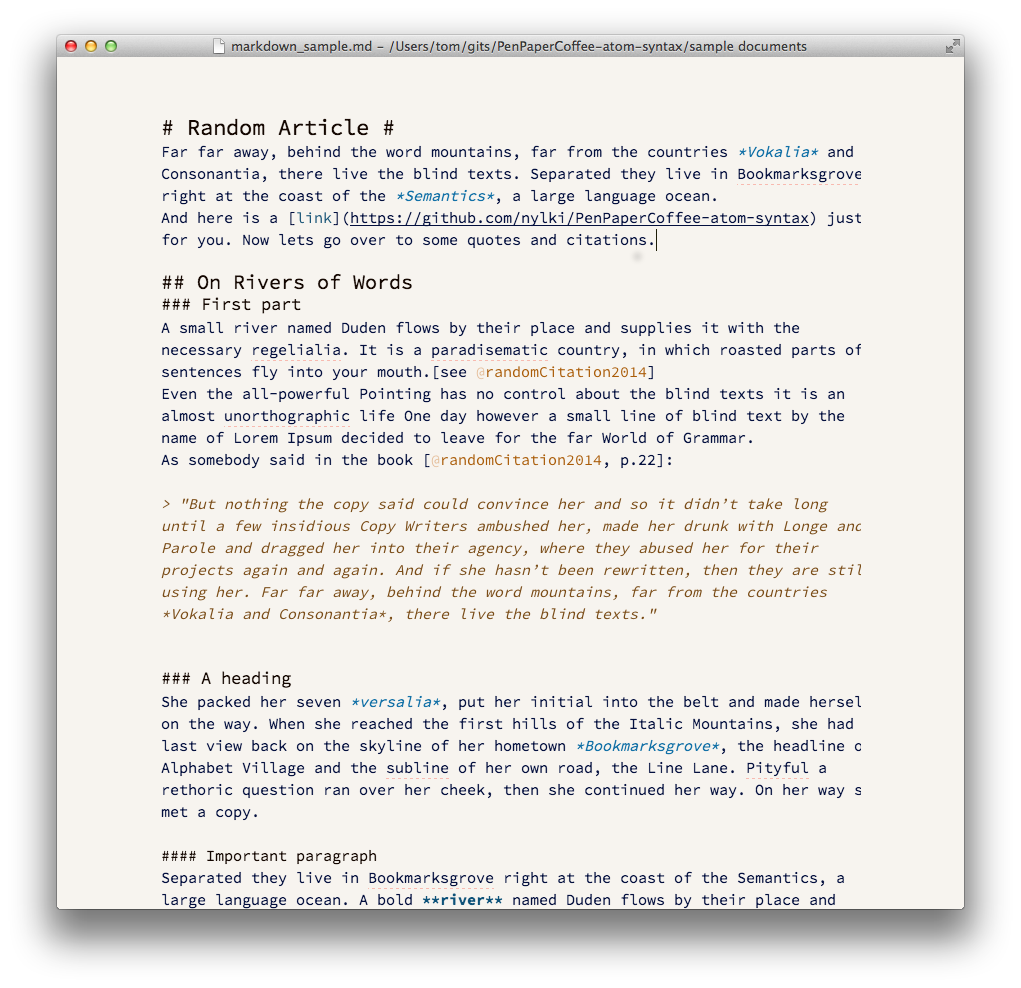
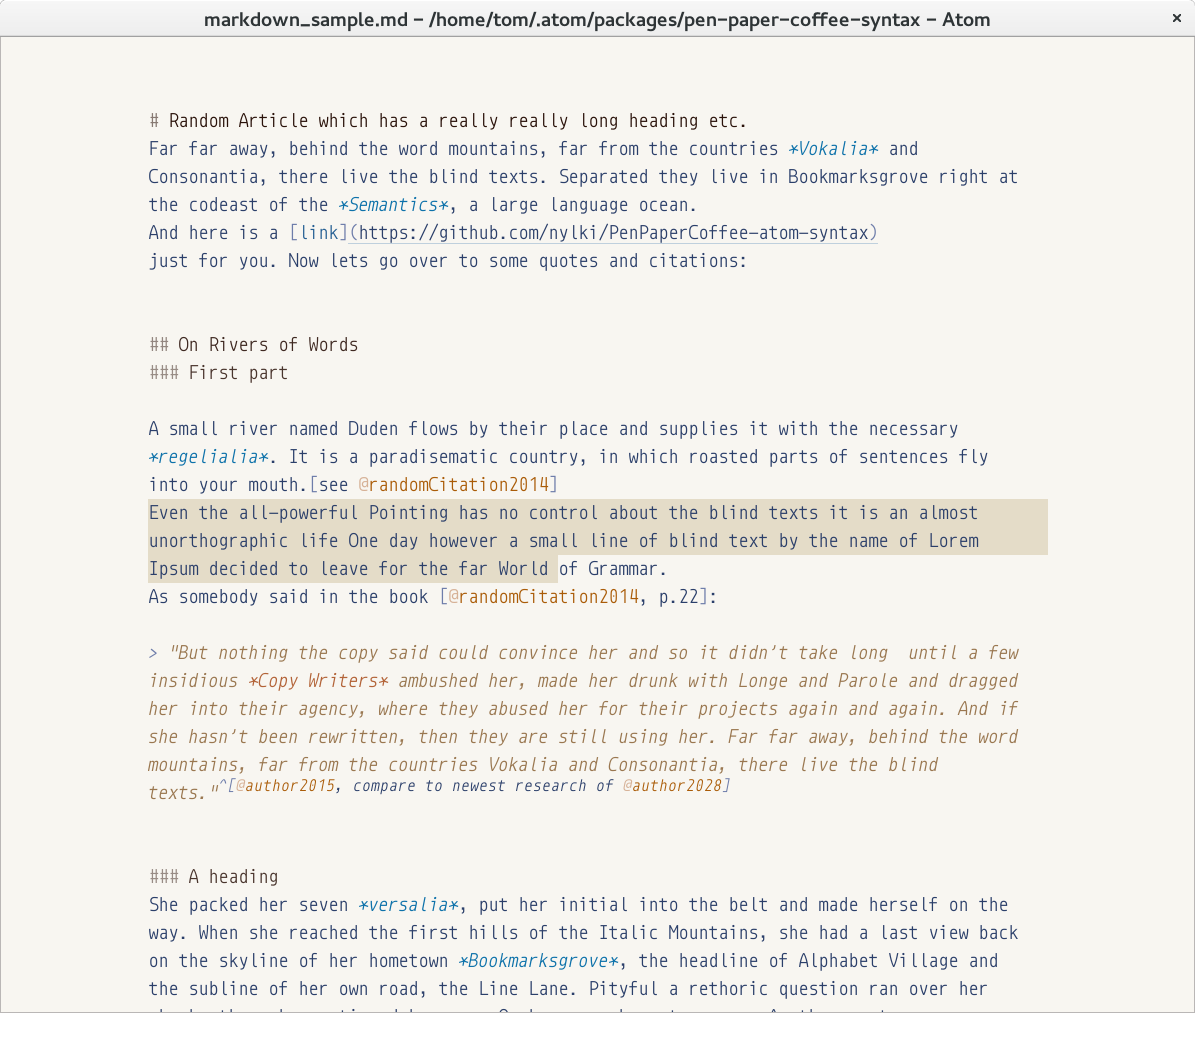
commented out header font size because of #20 and https://github.com/atom/atom/issues/6055

Changed region(s): [[0.0, 0.0, 1.0, 0.9717], [0.8198, 0.2126, 0.8501, 0.2429]]

diff --git a/styles/languages/markdown.less b/styles/languages/markdown.less
@@ -43,28 +43,36 @@
     &.heading {
         color: @heading-ink;
         font-weight: normal;
-        position: relative;
+        // position: relative;
         &.heading-1 {
-            font-size: 135%;
-            bottom: 0.35em;
+            font-weight: 900;
+            // font-size: 105%;
+            // font-size: 135%;
+            // bottom: 0.35em;
             opacity: 1.0;
         }
         &.heading-2 {
-            font-size: 125%;
-            bottom: 0.25em;
-            opacity: 0.95;
+            font-weight: 800;
+            // font-size: 102%;
+            // font-size: 125%;
+            // bottom: 0.25em;
+            // opacity: 0.95;
+            opacity: 0.9;
         }
         &.heading-3 {
-            font-size: 115%;
-            bottom: 0.15em;
-            opacity: 0.90;
+            font-weight: 700;
+            // font-size: 115%;
+            // bottom: 0.15em;
+            // opacity: 0.90;
+            opacity: 0.85;
         }
         &.heading-4,
         &.heading-5,
         &.heading-6 {
-            font-size: 105%;
-            bottom: 0.05em;
-            opacity: 0.85;
+            // font-size: 105%;
+            // bottom: 0.05em;
+            // opacity: 0.80;
+            opacity: 0.80;
         }
         // marker of headings
         &.marker {
@@ -197,19 +205,20 @@
   }
 
   &.citation{
-    background: fadeout(@citation-name-color,90%);
+    // background: fadeout(@citation-name-color,90%);
   }
 
   &.footnote {
-    // position: relative;
-    // top: -0.5em;
-    // font-size: 70%;
+    position: relative;
+    top: -0.5em;
+    font-size: 85%;
     // font-weight:900;
     // so far comes from language-pfm
 
-    font-style: normal;
-    vertical-align: super;
-    font-size: 85%;
+    // would be better?
+    // font-style: normal;
+    // vertical-align: super;
+    // font-size: 85%;
     color:@ink;
   }
 

diff --git a/sample documents/markdown_sample.md b/sample documents/markdown_sample.md
@@ -7,15 +7,12 @@ just for you. Now lets go over to some quotes and citations:
 
 ## On Rivers of Words
 ### First part
-A small river named Duden flows by their place and supplies it with the necessary *regelialia*. It is a paradisematic country, in which roasted parts of sentences fly into your mouth.[see @randomCitation2014]
+
+A small river named Duden flows by their place and supplies it with the necessary *regelialia*. It is a paradisematic country, in which roasted parts of sentences fly into your mouth [see @randomCitation2014].
 Even the all-powerful Pointing has no control about the blind texts it is an almost unorthographic life One day however a small line of blind text by the name of Lorem Ipsum decided to leave for the far World of Grammar.
-As somebody said in the book [@randomCitation2014, p.22]:
+As somebody said in the book:
 
-> "But nothing the copy said could convince her and so it didn’t take long  until a few insidious *Copy Writers* ambushed her, made her drunk with Longe and Parole and dragged her into their agency, where they abused her for their projects again and again. And if she hasn’t been rewritten, then they are still using her. Far far away, behind the word mountains, far from the countries Vokalia and Consonantia, there live the blind texts."^[@author2015, compare to newest research of @author2028]
-
-
-[p. 1, This is *not* a list. **bold text**]
-^[p. 1, This is *not* a list **bold text**]
+> "But nothing the copy said could convince her and so it didn’t take long  until a few insidious *Copy Writers* ambushed her, made her drunk with Longe and Parole and dragged her into their agency, where they abused her for their projects again and again. And if she hasn’t been rewritten, then they are still using her. Far far away, behind the word mountains, far from the countries Vokalia and Consonantia, there live the blind texts."^[This is a footnote, p.22]
 
 
 ### A heading
@@ -33,9 +30,10 @@ It is a *paradisematic country*, in which roasted parts of sentences fly into yo
 
 She packed her seven versalia, put her initial into the belt and made herself on the way. When she reached the **first hills** of the Italic Mountains, she had a last view back on the skyline of her hometown Bookmarksgrove, the headline of Alphabet Village and the subline of her own road, the Line Lane. Pityful a rethoric question ran over her cheek, then she continued her way. On her way she met a copy. The copy warned the Little Blind Text, that where it came from it would have been rewritten a thousand times and everything that was left from its origin would be the word "and" and the Little Blind Text should turn around and return to its own, safe country.^[This is not so cool]
 
-But nothing the copy said could convince her and so it didn’t take long until a few insidious Copy Writers ambushed her, made her drunk with Longe and Parole and dragged her into their agency, where they abused her for their projects again and again. And if she hasn’t been rewritten, then they are still using her. Far far away, behind the word mountains, far from the countries Vokalia and Consonantia, there live the blind texts. Separated they live in Bookmarksgrove right at the coast of the Semantics, a large language ocean. A small river named Duden flows by their place and supplies it with the necessary regelialia. It is a paradisematic country, in which roasted parts of sentences fly into your mouth.^[Lorem ipsum dolor sit amet, consectetur adipisicing elit, sed do eiusmod tempor incididunt ut labore et dolore magna aliqua. Ut enim ad minim veniam, quis nostrud exercitation ullamco laboris nisi ut aliquip ex ea commodo consequat. Duis aute irure dolor in reprehenderit in voluptate velit esse cillum dolore eu fugiat nulla pariatur. Excepteur sint occaecat cupidatat non proident, sunt in culpa qui officia deserunt mollit anim id est laborum. Lorem ipsum dolor sit amet, consectetur adipisicing elit, sed do eiusmod tempor incididunt ut labore et dolore magna aliqua. Ut enim ad minim veniam, quis nostrud exercitation ullamco laboris nisi ut aliquip ex ea commodo consequat. Duis aute irure dolor in reprehenderit in voluptate velit esse cillum dolore eu fugiat nulla pariatur. Excepteur sint occaecat cupidatat non proident, sunt in culpa qui officia deserunt mollit anim id est laborum.]
+But nothing the copy said could convince her and so it didn’t take long until a few insidious Copy Writers ambushed her, made her drunk with Longe and Parole and dragged her into their agency, where they abused her for their projects again and again. And if she hasn’t been rewritten, then they are still using her. Far far away, behind the word mountains, far from the countries Vokalia and Consonantia, there live the blind texts. Separated they live in Bookmarksgrove right at the coast of the Semantics, a large language ocean. A small river named Duden flows by their place and supplies it with the necessary regelialia. It is a paradisematic country, in which roasted parts of sentences fly into your mouth.^[Lorem ipsum dolor sit amet, consectetur adipisicing elit, sed do eiusmod tempor incididunt ut labore et dolore magna aliqua. Ut enim ad minim veniam, quis nostrud exercitation ullamco laboris nisi ut aliquip ex ea commodo consequat.]
 
-Even the all-powerful Pointing has no control about the blind texts it is an almost unorthographic life **One** day however a small line of blind text by the name of Lorem Ipsum decided to leave for the far World of Grammar. The Big Oxmox advised her not to do so, because there were thousands of bad Commas, wild Question Marks and devious Semikoli, but the Little Blind Text didn’t listen. She packed her seven versalia, put her initial into the belt and made herself on the way. When she reached the first hills of the Italic Mountains, she had a last view back on the skyline of her hometown Bookmarksgrove, the headline of Alphabet Village and the subline of her own road, the Line Lane. Pityful a rethoric question ran over her cheek, then she continued her way.
+Even the all-powerful Pointing has no control about the blind texts it is an almost unorthographic life **One** day however a small line of blind text by the
+name of Lorem Ipsum decided to leave for the far World of Grammar. The Big Oxmox advised her not to do so, because there were thousands of bad Commas, wild Question Marks and devious Semikoli, but the Little Blind Text didn’t listen. She packed her seven versalia, put her initial into the belt and made herself on the way. When she reached the first hills of the Italic Mountains, she had a last view back on the skyline of her hometown Bookmarksgrove, the headline of Alphabet Village and the subline of her own road, the Line Lane. Pityful a rethoric question ran over her cheek, then she continued her way.
 
 On her way she met a copy. The copy warned the Little Blind Text, that where it came from it would have been rewritten a thousand times and everything that was left from its origin would be the word "and" and the Little Blind Text should turn around and return to its own, safe country. But nothing the copy said could convince her and so it didn’t take long until a few insidious Copy Writers ambushed her, made her drunk with Longe and Parole and dragged her into their agency, where they abused her for their projects again and again. And if she hasn’t been rewritten, then they are still using her. Far far away, behind the word mountains, far from the countries Vokalia and Consonantia, there live the blind texts.
 
@@ -108,3 +106,8 @@ Term 2
     Definition 2b
 
 Definitions ends before that line
+
+
+# unwanted behaviour
+[p. 1, This is *not* a list. **bold text**]
+^[p. 1, This is *not* a list **bold text**]

diff --git a/README.md b/README.md
@@ -1,13 +1,13 @@
 # Pen Paper Coffee :pencil2::scroll::coffee:
 *Pen Paper Coffee* is a syntax theme for the text editor [atom](http://atom.io/), which is designed specifically for writing papers, essays etc. in [markdown](https://en.wikipedia.org/wiki/Markdown).
-The theme features increased font-sizes for each level of headers, several useful, but not distracting syntax highlightings.
+The theme features ~~increased font-sizes for each level of headers~~ (see *changes* on the bottom), several useful, but not distracting syntax highlightings.
 The overall colors are inspired by the soft beige paper you would find in a notebook. While the ink (text color) is a dark blue, all quotes and citations are in a warm brownish orange to contrast them better to your own words. When writing text, not code, I usually set a line height of 1.4 or 1.5 in atoms settings, as you can see in the sample screenshots.
 
 Although this theme was designed for markdown usage, I paid attention that it still looks good and clear with other documents (eg. html, javascript, C).
 
 The screenshots without gutter and text centering had [Zen](https://atom.io/packages/zen) installed, if you like to have centered text but still see the gutter, treeview and tabs [typewriter](https://atom.io/packages/typewriter) might be for you.
 
-When you want to cite stuff from eg. a bibtex file, I find a great package to use together with this theme is [autocomplete bibtex](https://github.com/apcshields/autocomplete-bibtex). It's a great help when combining it with [pandoc](https://github.com/jgm/pandoc) for pdf & latex export from markdown.
+When you want to cite stuff from eg. a bibtex file, I find a great package to use together with this theme is [autocomplete bibtex](https://github.com/apcshields/autocomplete-bibtex). It's a great help when combining it with [pandoc](https://github.com/jgm/pandoc) for pdf & latex export from markdown. Work great with the [language-pfm](https://github.com/leipert/language-pfm) package.
 
 
 ### screenshots
@@ -26,6 +26,15 @@ The screenshots below  are a bit outdated now, (the gutter color is lighter now,
 ![A screenshot of your theme](https://raw.githubusercontent.com/nylki/PenPaperCoffee-atom-syntax/master/screenshots/penPaperCoffe_3.png)
 
 ## changes
+### 2. October 2015
+Due to rendering issues in Atom, I reduced the increased fonts for headings. It made too many problems unfortunately :/
+They are still increased, but more subtle and shouldnt make that many problems with cursor positioning and long headings anymore.
+Relevant issues:
+
+- [https://github.com/nylki/pen-paper-coffee-syntax/issues/20#issuecomment-144845830](https://github.com/nylki/pen-paper-coffee-syntax/issues/20#issuecomment-144845830)
+
+- [https://github.com/atom/atom/issues/6055](https://github.com/atom/atom/issues/6055)
+
 ### 11. April 2015
 I changed the gutter to a lighter brown, which is much more pleasing, atleast to my eyes. If you prefer the darker gutter, just comment out and uncomment the following lines in `colors.less` to your liking:
 ```.less
